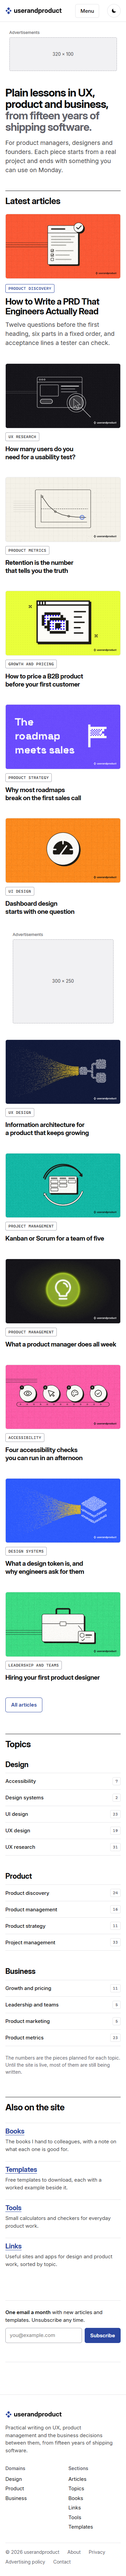
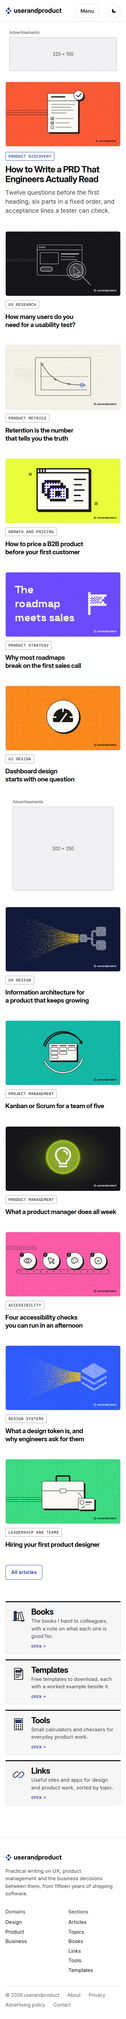
Home page: cards start under the header, no hero, no topics, no newsletter; section tiles

diff --git a/research/mockups/home/index.html b/research/mockups/home/index.html
@@ -17,11 +17,10 @@
 <link rel="stylesheet" href="home.css">
 <script src="../mockup.js" defer></script>
 </head>
-<!-- Home page mockup, simple version (10 Oct 2026). Everything below the masthead is what WordPress makes on its own:
-     the twelve newest posts (a loop, newest first, one in-feed ad after the sixth), the category list per domain with
-     counts, and four fixed links to the section pages. Nothing is picked by hand. The article titles and decks are
-     made-up samples; the counts are the planned pieces per category from research/seo/tree-simplified-v1.1.md, listed
-     by name as the taxonomy lists them. Every card links to article A, the one sample article; the other links go to the
+<!-- Home page mockup, third pass (10 Oct 2026). No visible masthead: the one h1 is visually hidden. Under the leaderboard
+     is what WordPress makes on its own: the twelve newest posts (a loop, newest first, one in-feed ad after the sixth),
+     then four fixed links to the section pages, then the footer (no newsletter box on the home page). Nothing is picked by hand. The article titles and
+     decks are made-up samples. Every card links to article A, the one sample article; the other links go to the
      placeholder pages written by ../placeholders.py. -->
 <body class="home">
 <a class="skip" href="#content">Skip to the main content</a><header class="site-head">
@@ -35,16 +34,12 @@
 <aside class="ad ad--leader" data-ad="leaderboard" aria-label="Advertisement"><span class="ad__label">Advertisements</span><div class="ad__box"><span class="sz-0">320 &times; 100</span><span class="sz-1">728 &times; 90</span><span class="sz-2">970 &times; 90</span></div></aside>
 <main id="content" class="wrap">
 
-<!-- 1. Masthead: the one h1 and its deck (static text) -->
-<section class="mast" aria-labelledby="mast-h">
-  <h1 id="mast-h">Plain lessons in UX, product and business, <span class="mast__quiet">from fifteen years of shipping software.</span></h1>
-  <p class="mast__deck">For product managers, designers and founders. Each piece starts from a real project and ends with something you can use on Monday.</p>
-</section>
+<h1 class="vh">userandproduct: lessons in UX, product and business</h1>
 
-<!-- 2. Latest articles: the posts loop, newest first. The first post gets the large card; the next eleven fill the grid.
+<!-- 1. Latest articles: the posts loop, newest first. The first post gets the large card; the next eleven fill the grid.
      No dates: the date lives only on the article page. -->
 <section class="latest" id="latest" aria-labelledby="latest-h">
-  <h2 id="latest-h" class="sec-h">Latest articles</h2>
+  <h2 id="latest-h" class="vh">Latest articles</h2>
   <article class="lead">
     <a class="lead__link" href="../article/article-a.html">
       <img src="img/prd-engineers-read-hero.png" width="1200" height="675" alt="Illustration of a PRD page with a checklist, two items ticked." fetchpriority="high" decoding="async">
@@ -72,61 +67,15 @@
   <p class="latest__all"><a class="btn btn--ghost" href="../sections/articles.html">All articles</a></p>
 </section>
 
-<!-- 3. Topics: each domain and its categories with their counts, as the taxonomy lists them -->
-<section class="topics" aria-labelledby="topics-h">
-  <h2 id="topics-h" class="sec-h">Topics</h2>
-  <div class="topics__row">
-    <section class="domain" aria-labelledby="dom-design">
-      <h3 id="dom-design"><a href="../category/index.html">Design</a></h3>
-      <ul class="cats">
-        <li><a href="../category/index.html"><span>Accessibility</span><span class="chip chip--count">7<span class="vh"> planned pieces</span></span></a></li>
-        <li><a href="../category/index.html"><span>Design systems</span><span class="chip chip--count">2<span class="vh"> planned pieces</span></span></a></li>
-        <li><a href="../category/index.html"><span>UI design</span><span class="chip chip--count">23<span class="vh"> planned pieces</span></span></a></li>
-        <li><a href="../category/index.html"><span>UX design</span><span class="chip chip--count">19<span class="vh"> planned pieces</span></span></a></li>
-        <li><a href="../category/index.html"><span>UX research</span><span class="chip chip--count">31<span class="vh"> planned pieces</span></span></a></li>
-      </ul>
-    </section>
-    <section class="domain" aria-labelledby="dom-product">
-      <h3 id="dom-product"><a href="../category/index.html">Product</a></h3>
-      <ul class="cats">
-        <li><a href="../category/index.html"><span>Product discovery</span><span class="chip chip--count">24<span class="vh"> planned pieces</span></span></a></li>
-        <li><a href="../category/index.html"><span>Product management</span><span class="chip chip--count">16<span class="vh"> planned pieces</span></span></a></li>
-        <li><a href="../category/index.html"><span>Product strategy</span><span class="chip chip--count">11<span class="vh"> planned pieces</span></span></a></li>
-        <li><a href="../category/index.html"><span>Project management</span><span class="chip chip--count">33<span class="vh"> planned pieces</span></span></a></li>
-      </ul>
-    </section>
-    <section class="domain" aria-labelledby="dom-business">
-      <h3 id="dom-business"><a href="../category/index.html">Business</a></h3>
-      <ul class="cats">
-        <li><a href="../category/index.html"><span>Growth and pricing</span><span class="chip chip--count">11<span class="vh"> planned pieces</span></span></a></li>
-        <li><a href="../category/index.html"><span>Leadership and teams</span><span class="chip chip--count">5<span class="vh"> planned pieces</span></span></a></li>
-        <li><a href="../category/index.html"><span>Product marketing</span><span class="chip chip--count">5<span class="vh"> planned pieces</span></span></a></li>
-        <li><a href="../category/index.html"><span>Product metrics</span><span class="chip chip--count">23<span class="vh"> planned pieces</span></span></a></li>
-      </ul>
-    </section>
-  </div>
-  <p class="topics__note">The numbers are the pieces planned for each topic. Until the site is live, most of them are still being written.</p>
-</section>
-
-<!-- 4. Also on the site: fixed links to the four section pages -->
-<section class="also" aria-labelledby="also-h">
-  <h2 id="also-h" class="sec-h">Also on the site</h2>
-  <ul class="also__row">
-    <li><h3><a href="../sections/books.html">Books</a></h3><p>The books I hand to colleagues, with a note on what each one is good for.</p></li>
-    <li><h3><a href="../sections/templates.html">Templates</a></h3><p>Free templates to download, each with a worked example beside it.</p></li>
-    <li><h3><a href="../sections/tools.html">Tools</a></h3><p>Small calculators and checkers for everyday product work.</p></li>
-    <li><h3><a href="../sections/links.html">Links</a></h3><p>Useful sites and apps for design and product work, sorted by topic.</p></li>
+<!-- 2. The rest of the site: fixed links to the four section pages, one tile each -->
+<section class="secs" aria-labelledby="secs-h">
+  <h2 id="secs-h" class="vh">More from the site</h2>
+  <ul class="secs__row">
+    <li><a class="sec" href="../sections/books.html"><svg class="sec__mark" viewBox="0 0 48 48" width="48" height="48" aria-hidden="true" focusable="false"><path class="svg-signal" d="M10 10h7v30h-7z"/><path class="sec__ln" d="M10 10h7v30h-7zM17 14h7v26h-7zM27.5 13.4l6.8-1.8 7.8 29-6.8 1.8zM6 40h37"/><path class="sec__ln" d="M10 16h7M17 34h7"/></svg><h3 class="sec__name">Books</h3><p class="sec__line">The books I hand to colleagues, with a note on what each one is good for.</p><span class="sec__open" aria-hidden="true">Open</span></a></li>
+    <li><a class="sec" href="../sections/templates.html"><svg class="sec__mark" viewBox="0 0 48 48" width="48" height="48" aria-hidden="true" focusable="false"><path class="svg-signal" d="M15 13h18v6H15z"/><path class="sec__ln" d="M11 6h20l7 7v29H11zM31 6v7h7M15 13h18v6H15zM15 25h18M15 30h18M15 35h11"/></svg><h3 class="sec__name">Templates</h3><p class="sec__line">Free templates to download, each with a worked example beside it.</p><span class="sec__open" aria-hidden="true">Open</span></a></li>
+    <li><a class="sec" href="../sections/tools.html"><svg class="sec__mark" viewBox="0 0 48 48" width="48" height="48" aria-hidden="true" focusable="false"><path class="svg-signal" d="M15 11h18v8H15z"/><path class="sec__ln" d="M11 6h26v36H11zM15 11h18v8H15z"/><g class="svg-ink"><circle cx="17" cy="26" r="1.9"/><circle cx="24" cy="26" r="1.9"/><circle cx="31" cy="26" r="1.9"/><circle cx="17" cy="32" r="1.9"/><circle cx="24" cy="32" r="1.9"/><circle cx="31" cy="32" r="1.9"/><circle cx="17" cy="38" r="1.9"/><circle cx="24" cy="38" r="1.9"/><circle cx="31" cy="38" r="1.9"/></g></svg><h3 class="sec__name">Tools</h3><p class="sec__line">Small calculators and checkers for everyday product work.</p><span class="sec__open" aria-hidden="true">Open</span></a></li>
+    <li><a class="sec" href="../sections/links.html"><svg class="sec__mark" viewBox="0 0 48 48" width="48" height="48" aria-hidden="true" focusable="false"><path class="sec__ln" d="M21.5 26.5l-4.6 4.6a6 6 0 0 1-8.5-8.5l6-6a6 6 0 0 1 8.5 0"/><path class="sec__ln sec__ln--sig" d="M26.5 21.5l4.6-4.6a6 6 0 0 1 8.5 8.5l-6 6a6 6 0 0 1-8.5 0"/><path class="sec__ln" d="M19 29l10-10"/></svg><h3 class="sec__name">Links</h3><p class="sec__line">Useful sites and apps for design and product work, sorted by topic.</p><span class="sec__open" aria-hidden="true">Open</span></a></li>
   </ul>
-</section>
-
-<!-- 5. Newsletter: the same in-page box as article A, never a pop-up -->
-<section class="news" id="newsletter" aria-labelledby="news-h">
-  <h2 id="news-h" class="vh">Newsletter</h2>
-  <form data-news>
-    <label for="news-email"><b>One email a month</b> with new articles and templates. Unsubscribe any time.</label>
-    <div class="field"><input id="news-email" type="email" name="email" autocomplete="email" placeholder="you@example.com" required><button class="btn" type="submit">Subscribe</button></div>
-    <p class="status" role="status" aria-live="polite"></p>
-  </form>
 </section>
 </main>
 <footer class="site-foot">

diff --git a/research/mockups/home/home.css b/research/mockups/home/home.css
@@ -1,5 +1,4 @@
-/* Home page mockup: page-specific layout only. Tokens, header, footer, chips, buttons, ads and the
-   newsletter box come from ../mockup.css. */
+/* Home page mockup: page-specific layout only. Tokens, header, footer, chips, buttons and ads come from ../mockup.css. */
 
 /* phones step the scale down, as on the article page */
 @media (max-width:599px){
@@ -12,18 +11,8 @@
 .wrap>section+section{margin-top:var(--s9)}
 @media (max-width:767px){.wrap>section+section{margin-top:var(--s8)}}
 
-/* section heading: a display h2 on a hairline */
-.sec-h{padding-top:var(--s4);border-top:1px solid var(--rule-strong);font-size:clamp(26px,calc(18px + 1.2vw),34px);line-height:1.1;letter-spacing:-.02em}
-
-/* ---------- 1. Masthead ---------- */
-.mast{padding-top:var(--s7)}
-.mast h1{font-size:clamp(32px,calc(16px + 3vw),56px);line-height:1.06;letter-spacing:-.03em;max-width:18em}
-.mast__quiet{color:var(--ink-3)}
-.mast__deck{margin-top:var(--s4);font:400 var(--fs-lead)/1.5 var(--font-ui);color:var(--ink-2);max-width:36em}
-.wrap>.mast+.latest{margin-top:var(--s7)}
-
-/* ---------- 2. Latest articles: the newest large, the next eleven in a grid ---------- */
-.lead{margin-top:var(--s5)}
+/* ---------- 1. Latest articles: right under the leaderboard, the newest large, the next eleven in a grid ---------- */
+.lead{margin-top:var(--s6)}
 .lead__link{display:grid;gap:var(--s4);color:var(--ink);text-decoration:none}
 @media (min-width:900px){.lead__link{grid-template-columns:minmax(0,1.5fr) minmax(0,1fr);column-gap:var(--s6);align-items:center}}
 .lead__text{display:flex;flex-direction:column;align-items:flex-start;gap:var(--s3)}
@@ -45,27 +34,30 @@
 .feed__ad .ad{margin:0 auto}
 .latest__all{margin-top:var(--s7)}
 
-/* ---------- 3. Topics: three domains, each its category list with counts ---------- */
-.topics__row{display:grid;gap:var(--s7);margin-top:var(--s6)}
-@media (min-width:768px){.topics__row{grid-template-columns:repeat(3,minmax(0,1fr));gap:var(--s6)}}
-.domain{min-width:0}
-.domain h3{font-size:22px;line-height:1.2;letter-spacing:-.015em}
-.domain h3 a,.cats a{color:var(--ink);text-decoration:none}
-.cats{list-style:none;margin:var(--s3) 0 0;padding:0;border-top:1px solid var(--rule)}
-.cats li{border-bottom:1px solid var(--rule)}
-.cats a{display:flex;align-items:center;justify-content:space-between;gap:var(--s3);min-height:48px;padding:var(--s2) 0;font:500 var(--fs-ui)/1.3 var(--font-ui)}
-.domain h3 a:hover,.cats a:hover{color:var(--signal);text-decoration:underline;text-underline-offset:.18em}
-.chip--count{padding:5px 7px;color:var(--ink-3);border-color:var(--rule);font-variant-numeric:tabular-nums;flex:none}
-.cats a:hover .chip--count{color:var(--signal);border-color:var(--signal)}
-.topics__note{margin-top:var(--s5);font:400 var(--fs-meta)/1.5 var(--font-ui);color:var(--ink-3);max-width:44em}
+/* ---------- 2. The rest of the site (last block before the footer): four tiles, each a drawn mark, the name in display type, one line, Open ---------- */
+.secs__row{list-style:none;margin:0;padding:0;display:grid;gap:var(--s4);grid-template-columns:1fr}
+@media (min-width:600px){.secs__row{grid-template-columns:repeat(2,minmax(0,1fr));gap:var(--s5)}}
+@media (min-width:1024px){.secs__row{grid-template-columns:repeat(4,minmax(0,1fr))}}
+.secs__row li{display:flex}
+.sec{flex:1;display:flex;flex-direction:column;align-items:flex-start;gap:var(--s3);padding:var(--s6) var(--s5) var(--s5);
+  background:var(--panel);border:1px solid var(--rule);border-top:3px solid var(--rule-strong);border-radius:0 0 var(--radius) var(--radius);
+  color:var(--ink);text-decoration:none}
+.sec__mark{display:block;width:64px;height:64px;margin-bottom:var(--s2)}
+.sec__ln{fill:none;stroke:var(--ink);stroke-width:2;stroke-linecap:round;stroke-linejoin:round}
+.sec__ln--sig{stroke:var(--signal);stroke-width:2.6}
+.sec__name{font-size:clamp(26px,calc(18px + 1vw),32px);line-height:1.05;letter-spacing:-.025em}
+.sec__line{font:400 var(--fs-ui)/1.5 var(--font-ui);color:var(--ink-2);max-width:26em}
+.sec__open{margin-top:auto;padding-top:var(--s3);font:500 12px/1 var(--font-mono);letter-spacing:.06em;text-transform:uppercase;color:var(--signal)}
+.sec__open::after{content:"\2192";display:inline-block;margin-left:.4em;transition:transform .15s ease}
+.sec:hover{border-top-color:var(--signal)}
+.sec:hover .sec__name{color:var(--signal)}
+.sec:hover .sec__open::after{transform:translateX(3px)}
+.sec:focus-visible{outline:2px solid var(--focus);outline-offset:4px}
+/* phones: the mark beside the text, so four tiles stay short */
+@media (max-width:599px){
+  .sec{display:grid;grid-template-columns:44px minmax(0,1fr);column-gap:var(--s4);row-gap:var(--s1);padding:var(--s4)}
+  .sec__mark{grid-row:1/4;width:44px;height:44px;margin:2px 0 0}
+  .sec__name{font-size:24px}
+  .sec__open{padding-top:var(--s2)}
+}
 
-/* ---------- 4. Also on the site: four plain link blocks ---------- */
-.also__row{list-style:none;margin:var(--s6) 0 0;padding:0;display:grid;gap:var(--s5);grid-template-columns:1fr}
-@media (min-width:600px){.also__row{grid-template-columns:repeat(2,minmax(0,1fr))}}
-@media (min-width:1024px){.also__row{grid-template-columns:repeat(4,minmax(0,1fr))}}
-.also__row li{padding-top:var(--s3);border-top:1px solid var(--rule)}
-.also__row h3{font-size:20px;line-height:1.2;letter-spacing:-.01em}
-.also__row p{margin-top:var(--s2);font:400 var(--fs-ui)/1.5 var(--font-ui);color:var(--ink-2)}
-
-/* ---------- 5. Newsletter: the shared box, given room ---------- */
-.wrap>.news{margin-top:var(--s9)}

diff --git a/research/mockups/README.md b/research/mockups/README.md
@@ -22,21 +22,13 @@ All pages link to each other so the mockups can be clicked through as one site (
 - `article/`: page 2, the single article page in three variants (A Sidebar, B Magazine, C Reader) with the ad
   rules they follow: http://localhost/user-and-product/research/mockups/article/. `article/build.py` writes the
   three pages from one copy of the sample article; `article/shots/` holds the 375px thumbnails.
-- `home/`: page 1, the home page mockup: http://localhost/user-and-product/research/mockups/home/. Rebuilt simple on
-  10 Oct 2026 after the owner's correction. The owner's rule: the home page is automatic, latest articles plus links
-  to the sections; nothing on it is picked by hand, everything comes from the posts and the taxonomy. Top to bottom:
-  the shared header and leaderboard; a short masthead (the one h1 and its deck, static); "Latest articles", the
-  posts loop newest first: the newest as a large card (thumbnail, category chip, title, one-line deck), the next
-  eleven as a uniform grid (thumbnail, chip, title), no dates, one labelled 300 x 250 in-feed unit sized as a card
-  in the sixth slot (after the sixth newest post) so every row stays full at one, two or three columns, then an
-  "All articles" link; "Topics", the three domains with their categories listed by name as the taxonomy lists them,
-  each with its planned count in a mono chip and a note that the counts are planned; "Also on the site", four plain
-  links (Books, Templates, Tools, Links); the newsletter box; the shared footer, whose line carries the author and
-  whose legal row has About. Hand-written `index.html` plus `home.css` (page rules only) on the shared `mockup.css`
-  and `mockup.js`; header and footer are the shell from `placeholders.py`. Titles and decks are made-up samples;
-  every card links to article A. `home/build.py` drew the twelve thumbnails into `home/img/` (styles and reasons in
-  `home/img/README.md`, rotated for the first layout); `home/shots.py` takes the 375px and 1280px screenshots,
-  light and dark, into `home/shots/` and prints the overflow, ads-in-view and ad-density checks.
+- `home/`: page 1, the home page mockup: http://localhost/user-and-product/research/mockups/home/. Third pass 10 Oct
+  2026: no visible masthead (one visually hidden h1), the latest twelve right under the leaderboard (newest large, eleven
+  in a grid, in-feed ad in slot six, "All articles"), then four section tiles (Books, Templates, Tools, Links: a drawn
+  mark, the name in display type, one line, a mono Open link), then the footer; no Topics block, no newsletter box.
+  Hand-written `index.html` plus `home.css` on the shared `mockup.css` and `mockup.js`, shell from `placeholders.py`;
+  `home/build.py` drew the thumbnails into `home/img/`; `home/shots.py` takes the screenshots into `home/shots/` and
+  prints the overflow, ads-in-view and ad-density checks.
 - `placeholders.py`: the shared page shell (link targets, header, footer) and the placeholder pages written from
   one template: `category/index.html`, `sections/` (articles, books, links, tools, templates) and `pages/` (about,
   privacy, advertising, contact). It also writes the site map `index.html`, reading each page's status from disk.

diff --git a/research/discussion/context.md b/research/discussion/context.md
@@ -756,3 +756,7 @@ bottom in Related's place; all mockup pages linked through mockups/placeholders.
 with ten placeholder pages and a site map at research/mockups/index.html (8 built, 10 placeholders). Noted for the
 owner: at 1200 to 1439 px the article rail is 160 px wide, so the compact list's titles wrap to several lines; the fix
 would be to stack thumbnail above title at that width.
+Owner (home, 10 Oct): remove the hero text (h1 kept only visually hidden for search and screen readers), remove the
+"Latest articles" heading so the cards start right under the leaderboard, remove the Topics section entirely, and
+redesign the section-links block (Books, Templates, Tools, Links) without the "Also on the site" title. Being applied.
+Owner: remove the newsletter sign-up from the home page for now (not needed yet). Passed to the builder mid-run.
